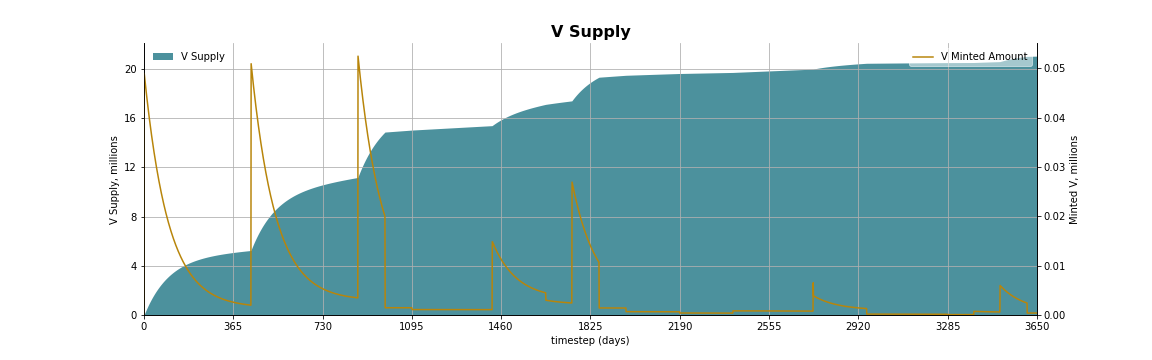
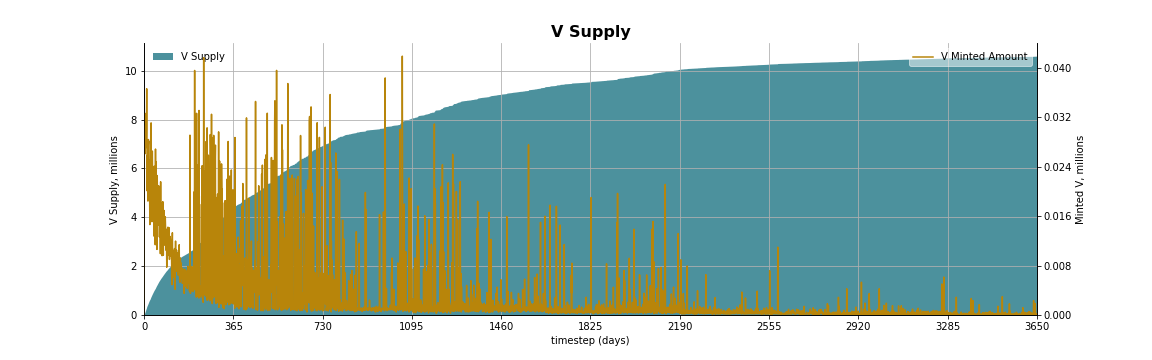
add types of distribution for investmint_period_share params

Changed region(s): [[0.0938, 0.1528, 0.9375, 0.9167], [0.9062, 0.7333, 0.9375, 0.7639], [0.1875, 0.8861, 0.2188, 0.9167]]

diff --git a/bostrom/model/policies.py b/bostrom/model/policies.py
@@ -1,4 +1,5 @@
 import math
+import random
 
 volt_hydrogen = {}
 ampere_hydrogen = {}
@@ -85,7 +86,8 @@ def p_ampere_minted_amount(params, substep, state_history, previous_state):
     else:
         released_hydrogen = 0
     hydrogen_for_minting = (params['ampere_volt_ratio'] * hydrogen_supply_delta) + released_hydrogen
-    investmint_max_period = math.floor(params['investmint_period_share'] * previous_state['investmint_max_period'])
+    # investmint_max_period = math.floor(params['investmint_period_share'] * previous_state['investmint_max_period'])
+    investmint_max_period = math.floor(random.choice(params['investmint_period_share']) * previous_state['investmint_max_period'])
     ampere_minted_amount = \
         math.floor((hydrogen_for_minting / params['ampere_base_investmint_amount']) *
                    (investmint_max_period / params['ampere_base_investmint_period']) * previous_state[
@@ -104,7 +106,8 @@ def p_volt_minted_amount(params, substep, state_history, previous_state):
     else:
         released_hydrogen = 0
     hydrogen_for_minting = ((1 - params['ampere_volt_ratio']) * hydrogen_supply_delta) + released_hydrogen
-    investmint_max_period = math.floor(params['investmint_period_share'] * previous_state['investmint_max_period'])
+    # investmint_max_period = math.floor(params['investmint_period_share'] * previous_state['investmint_max_period'])
+    investmint_max_period = math.floor(random.choice(params['investmint_period_share']) * previous_state['investmint_max_period'])
     volt_minted_amount = \
         math.floor((hydrogen_for_minting / params['volt_base_investmint_amount']) * \
                    (investmint_max_period / params['volt_base_investmint_period']) * previous_state['volt_mint_rate'])
